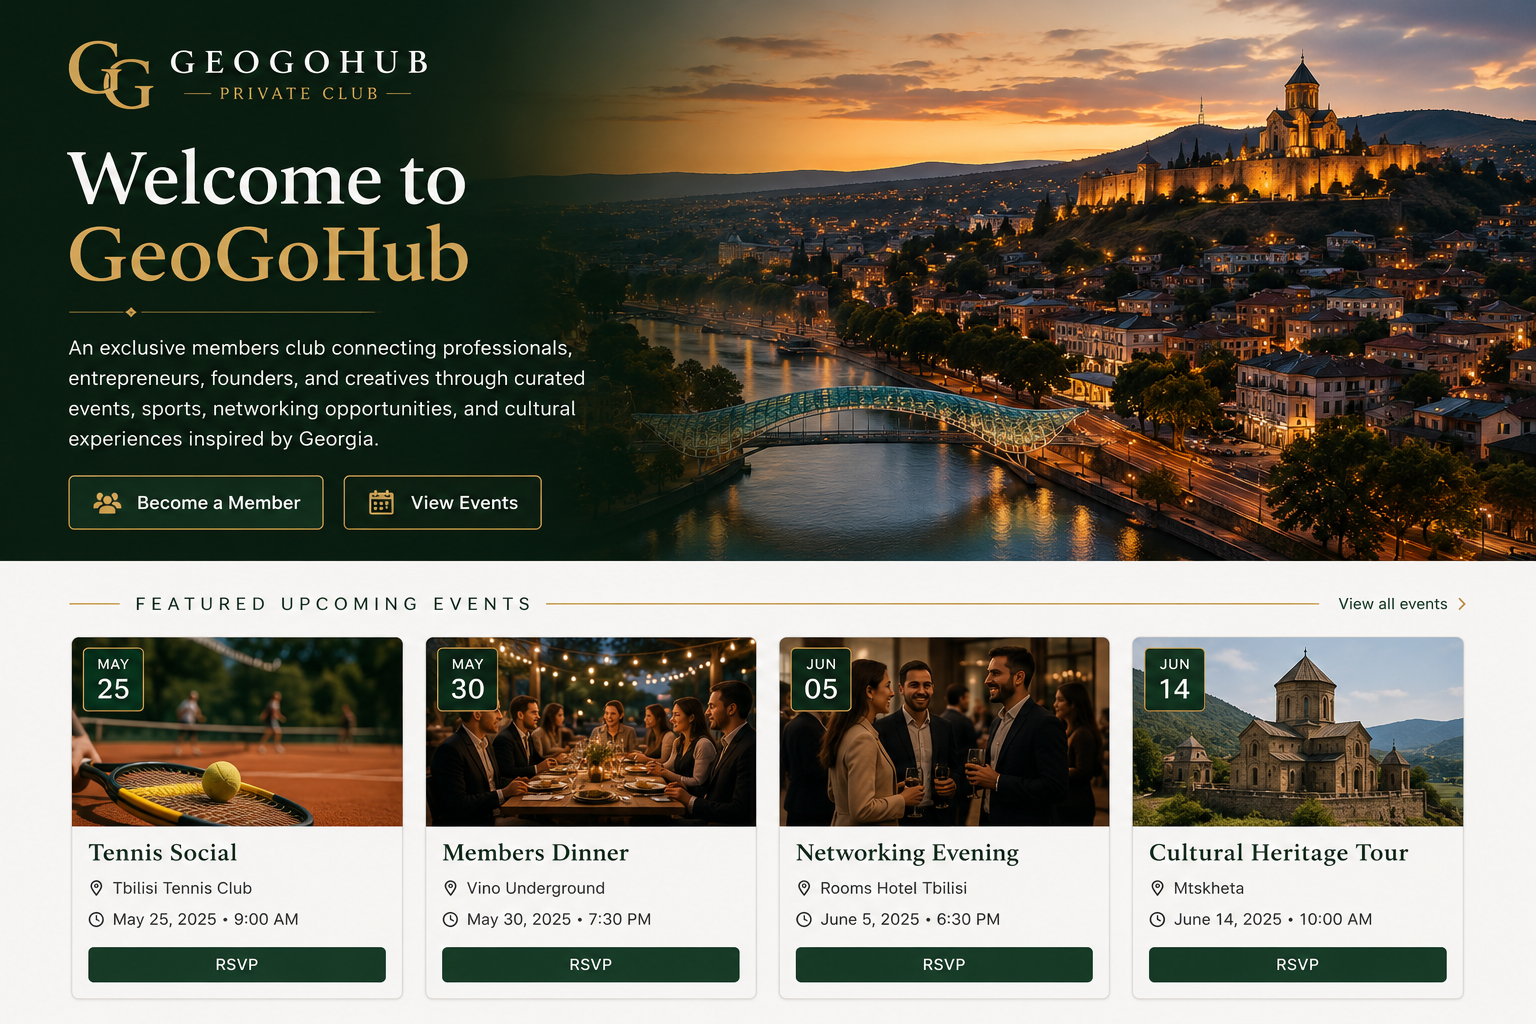
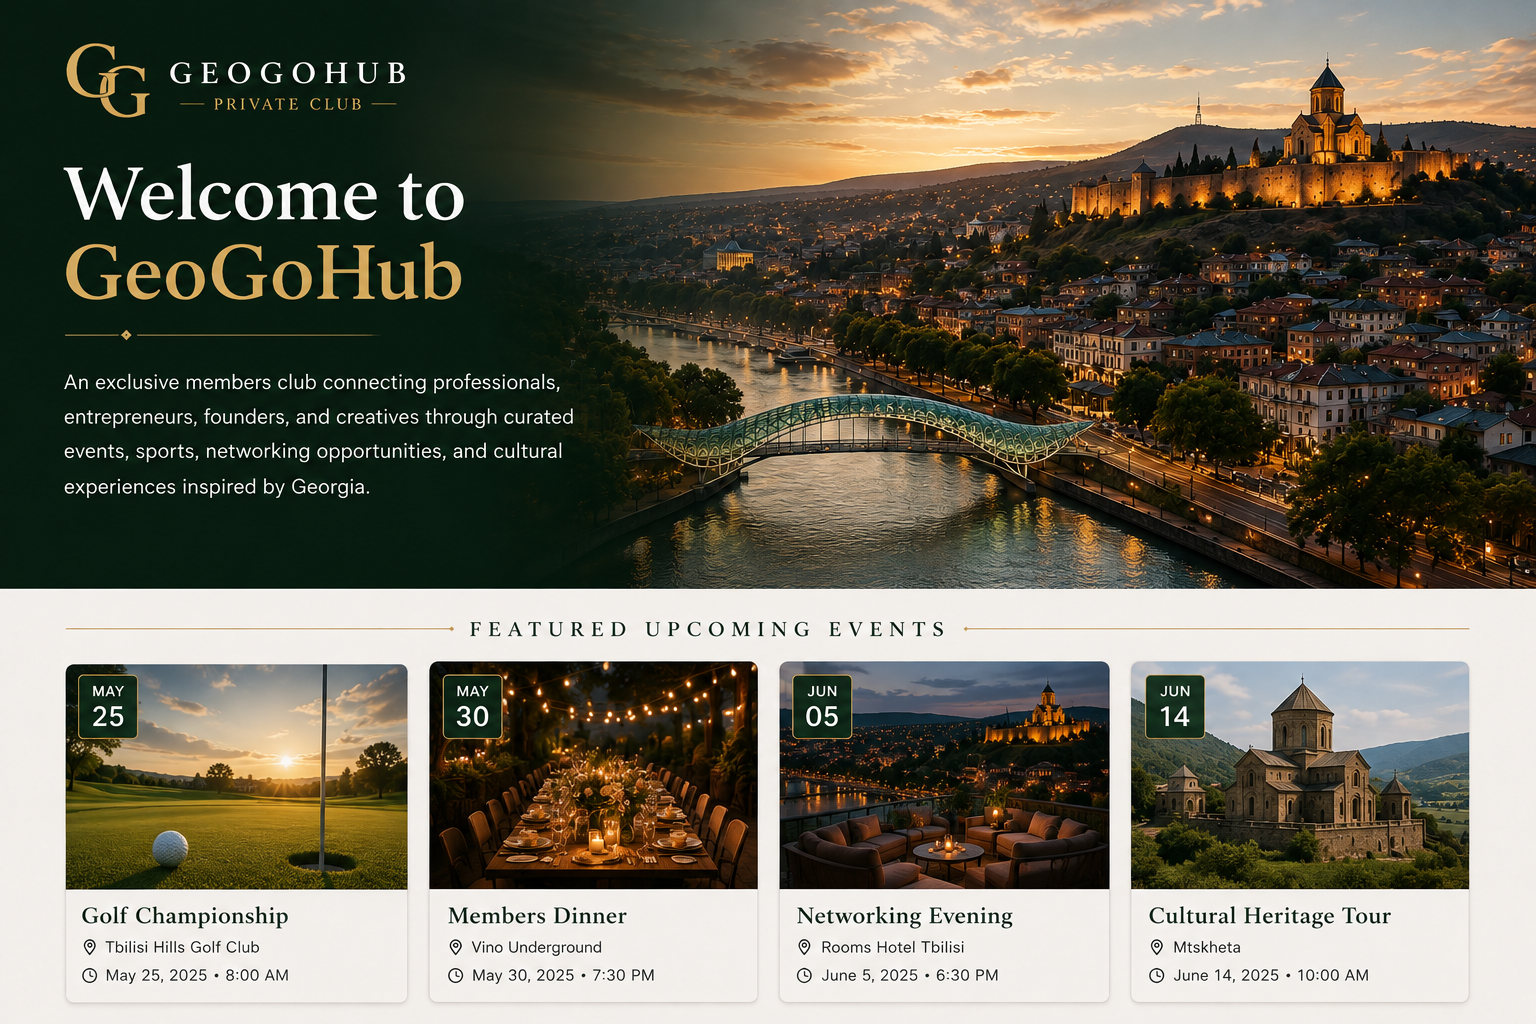
debug of HomePage.css

diff --git a/frontend/src/styles/HomePage.css b/frontend/src/styles/HomePage.css
@@ -4,11 +4,11 @@
   This file styles the GeoGoHub home page.
 
   Responsibilities:
-  - Style the main landing section.
-  - Present membership benefits clearly.
-  - Improve spacing and readability.
-  - Arrange the call-to-action buttons.
-  - Keep home page styles isolated from other pages.
+  - Style the home page introduction.
+  - Present the GeoGoHub brand clearly.
+  - Display membership benefits.
+  - Arrange call-to-action buttons.
+  - Support responsive and keyboard-friendly layouts.
 
   Author: Shorena K. Anzhilov
   Course: CS 5610 Web Development
@@ -17,40 +17,43 @@
 
 .home-page {
   min-height: calc(100vh - 160px);
-  padding: 4rem 2rem;
-  background-color: #f7f8f6;
+  padding: 4rem 1.5rem 5rem;
+  background-color: #f7f4ec;
 }
 
 .home-page__hero {
-  width: 100%;
-  max-width: 800px;
+  display: grid;
+  grid-template-columns: minmax(0, 1.25fr) minmax(280px, 0.75fr);
+  align-items: center;
+  gap: 3rem;
+  width: min(100%, 1100px);
   margin: 0 auto;
-  text-align: center;
+}
+
+.home-page__hero-content {
+  max-width: 700px;
 }
 
 .home-page__eyebrow {
   margin: 0 0 1rem;
-  color: #456b4d;
+  color: #8a681f;
   font-size: 0.85rem;
   font-weight: 700;
-  letter-spacing: 0.12em;
+  letter-spacing: 0.14em;
   text-transform: uppercase;
 }
 
-.home-page h2 {
-  color: #1f2a22;
-}
-
-.home-page__hero h2 {
+.home-page__hero h1 {
   margin: 0 0 1.25rem;
-  font-size: clamp(2.5rem, 6vw, 4.5rem);
-  line-height: 1.1;
+  color: #173426;
+  font-size: clamp(3rem, 7vw, 5rem);
+  line-height: 1;
 }
 
 .home-page__description {
-  max-width: 700px;
-  margin: 0 auto;
-  color: #5f665f;
+  max-width: 680px;
+  margin: 0;
+  color: #515c54;
   font-size: 1.1rem;
   line-height: 1.8;
 }
@@ -58,16 +61,15 @@
 .home-page__actions {
   display: flex;
   flex-wrap: wrap;
-  justify-content: center;
   gap: 1rem;
   margin-top: 2rem;
 }
 
 .home-page__button {
-  min-width: 170px;
-  padding: 0.85rem 1.4rem;
+  min-width: 180px;
+  padding: 0.9rem 1.4rem;
   border: 2px solid #30573a;
-  border-radius: 0.5rem;
+  border-radius: 0.4rem;
   font: inherit;
   font-weight: 700;
   cursor: pointer;
@@ -83,7 +85,7 @@
 
 .home-page__button:focus-visible {
   outline: 3px solid #8aa892;
-  outline-offset: 3px;
+  outline-offset: 4px;
 }
 
 .home-page__button--primary {
@@ -101,12 +103,59 @@
 }
 
 .home-page__button--secondary:hover {
-  background-color: #edf3ee;
+  background-color: #e8efe9;
+}
+
+.home-page__club-card {
+  padding: 2.5rem 2rem;
+  border: 1px solid #c9b27d;
+  border-radius: 0.75rem;
+  background-color: #173426;
+  color: #ffffff;
+  text-align: center;
+  box-shadow: 0 12px 30px rgba(23, 52, 38, 0.16);
+}
+
+.home-page__logo-mark {
+  display: grid;
+  place-items: center;
+  width: 92px;
+  height: 92px;
+  margin: 0 auto 1.25rem;
+  border: 2px solid #ddb764;
+  border-radius: 50%;
+  color: #ddb764;
+  font-family: Georgia, 'Times New Roman', serif;
+  font-size: 2.25rem;
+  font-weight: 700;
+}
+
+.home-page__club-name {
+  margin: 0;
+  color: #ffffff;
+  font-family: Georgia, 'Times New Roman', serif;
+  font-size: 1.8rem;
+  font-weight: 700;
+  letter-spacing: 0.08em;
+}
+
+.home-page__club-type {
+  margin: 0.4rem 0 1.25rem;
+  color: #ddb764;
+  font-size: 0.8rem;
+  font-weight: 700;
+  letter-spacing: 0.2em;
+  text-transform: uppercase;
+}
+
+.home-page__club-description {
+  margin: 0;
+  color: #e9ece8;
+  line-height: 1.7;
 }
 
 .home-page__benefits {
-  width: 100%;
-  max-width: 1100px;
+  width: min(100%, 1100px);
   margin: 5rem auto 0;
 }
 
@@ -117,13 +166,14 @@
 
 .home-page__benefits-heading h2 {
   margin: 0 0 1rem;
+  color: #173426;
   font-size: clamp(2rem, 4vw, 3rem);
   line-height: 1.2;
 }
 
 .home-page__benefits-heading > p:last-child {
   margin: 0;
-  color: #5f665f;
+  color: #59645c;
   font-size: 1.05rem;
   line-height: 1.7;
 }
@@ -136,25 +186,33 @@
 
 .home-page__benefit-card {
   padding: 1.75rem;
-  border: 1px solid #d8ddd9;
-  border-radius: 0.75rem;
+  border: 1px solid #ddd8ca;
+  border-radius: 0.7rem;
   background-color: #ffffff;
-  box-shadow: 0 6px 20px rgba(0, 0, 0, 0.06);
+  box-shadow: 0 6px 18px rgba(23, 52, 38, 0.07);
 }
 
 .home-page__benefit-card h3 {
   margin: 0 0 0.75rem;
-  color: #263329;
+  color: #173426;
   font-size: 1.25rem;
 }
 
 .home-page__benefit-card p {
   margin: 0;
-  color: #5f665f;
+  color: #59645c;
   line-height: 1.7;
 }
 
-@media (max-width: 800px) {
+@media (max-width: 850px) {
+  .home-page__hero {
+    grid-template-columns: 1fr;
+  }
+
+  .home-page__club-card {
+    max-width: 520px;
+  }
+
   .home-page__benefits-grid {
     grid-template-columns: 1fr;
   }
@@ -162,16 +220,19 @@
 
 @media (max-width: 600px) {
   .home-page {
-    padding: 3rem 1rem;
+    padding: 3rem 1rem 4rem;
   }
 
   .home-page__actions {
     flex-direction: column;
-    align-items: stretch;
   }
 
   .home-page__button {
     width: 100%;
+  }
+
+  .home-page__club-card {
+    padding: 2rem 1.25rem;
   }
 
   .home-page__benefits {

diff --git a/frontend/src/pages/HomePage.jsx b/frontend/src/pages/HomePage.jsx
@@ -18,40 +18,55 @@
 import PropTypes from 'prop-types';
 
 import '../styles/HomePage.css';
-import heroImage from '../assets/hero-image.png'; 
 
 // Render the home page.
 function HomePage({ onNavigate }) {
   return (
     <main className="home-page">
       <section className="home-page__hero" aria-labelledby="home-page-title">
-        <p className="home-page__eyebrow">Private Community Club in Georgia</p>
+        <div className="home-page__hero-content">
+          <p className="home-page__eyebrow">Private Community Club in Georgia</p>
 
-        <h2 id="home-page-title">Welcome to GeoGoHub</h2>
+          <h1 id="home-page-title">Welcome to GeoGoHub</h1>
 
-        <p className="home-page__description">
-          GeoGoHub is an exclusive members club connecting professionals, entrepreneurs, founders,
-          and creatives through curated events, sports, networking opportunities, and cultural
-          experiences inspired by Georgia.
-        </p>
+          <p className="home-page__description">
+            GeoGoHub is an exclusive members club connecting professionals, entrepreneurs,
+            founders, and creatives through curated events, sports, networking opportunities, and
+            cultural experiences inspired by Georgia.
+          </p>
 
-        <div className="home-page__actions">
-          <button
-            type="button"
-            className="home-page__button home-page__button--primary"
-            onClick={() => onNavigate('application')}
-          >
-            Become a Member
-          </button>
+          <div className="home-page__actions">
+            <button
+              type="button"
+              className="home-page__button home-page__button--primary"
+              onClick={() => onNavigate('application')}
+            >
+              Become a Member
+            </button>
 
-          <button
-            type="button"
-            className="home-page__button home-page__button--secondary"
-            onClick={() => onNavigate('events')}
-          >
-            View Events
-          </button>
+            <button
+              type="button"
+              className="home-page__button home-page__button--secondary"
+              onClick={() => onNavigate('events')}
+            >
+              View Events
+            </button>
+          </div>
         </div>
+
+        <aside className="home-page__club-card" aria-label="GeoGoHub private club">
+          <div className="home-page__logo-mark" aria-hidden="true">
+            GG
+          </div>
+
+          <p className="home-page__club-name">GeoGoHub</p>
+          <p className="home-page__club-type">Private Club</p>
+
+          <p className="home-page__club-description">
+            Building connections, creating opportunities, and sharing experiences inspired by
+            Georgia.
+          </p>
+        </aside>
       </section>
 
       <section className="home-page__benefits" aria-labelledby="membership-benefits-title">
